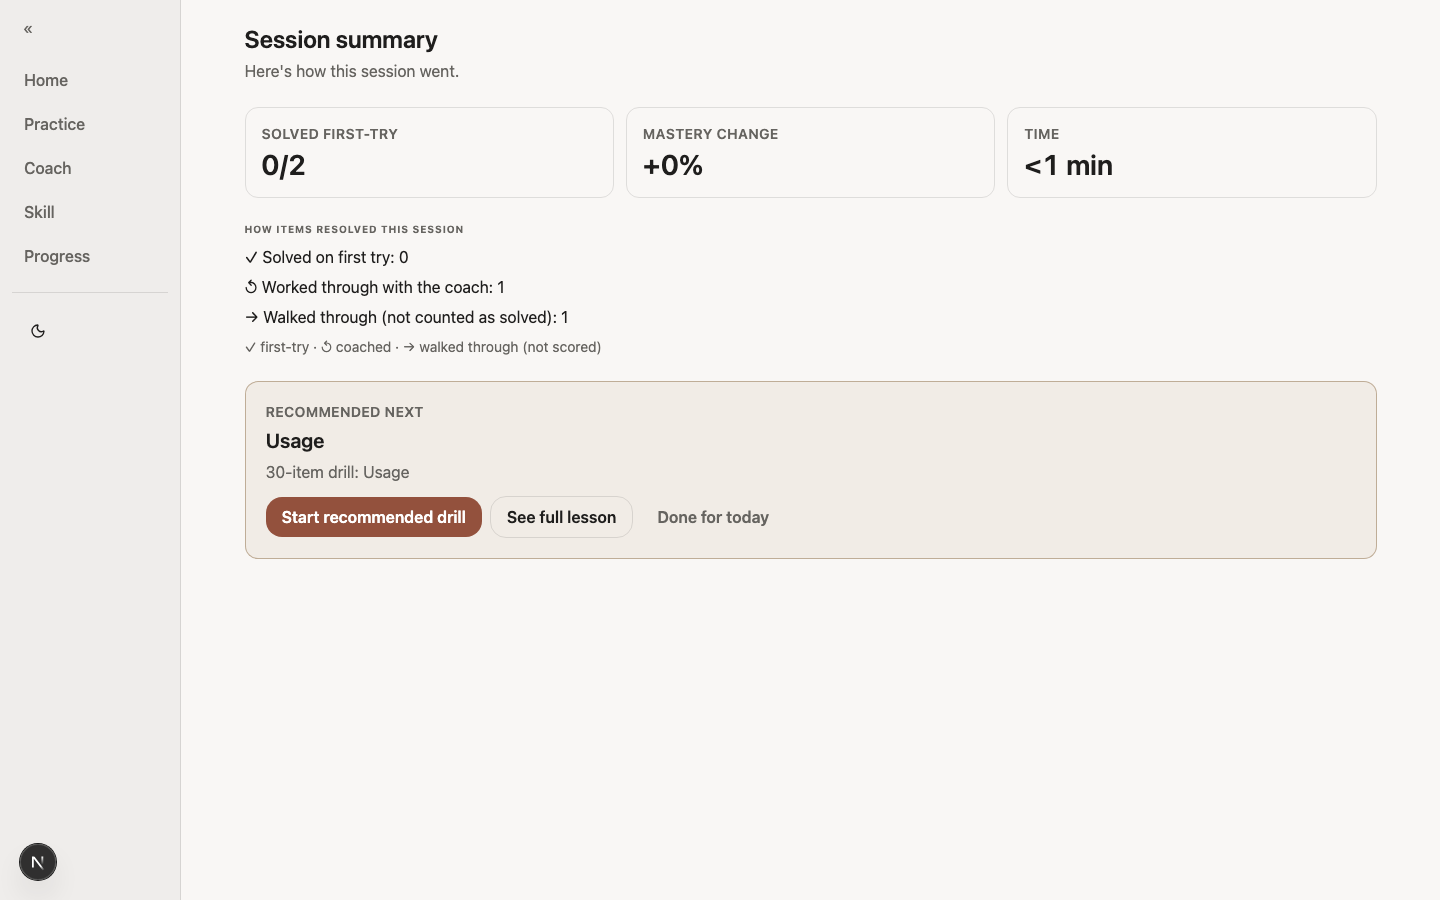
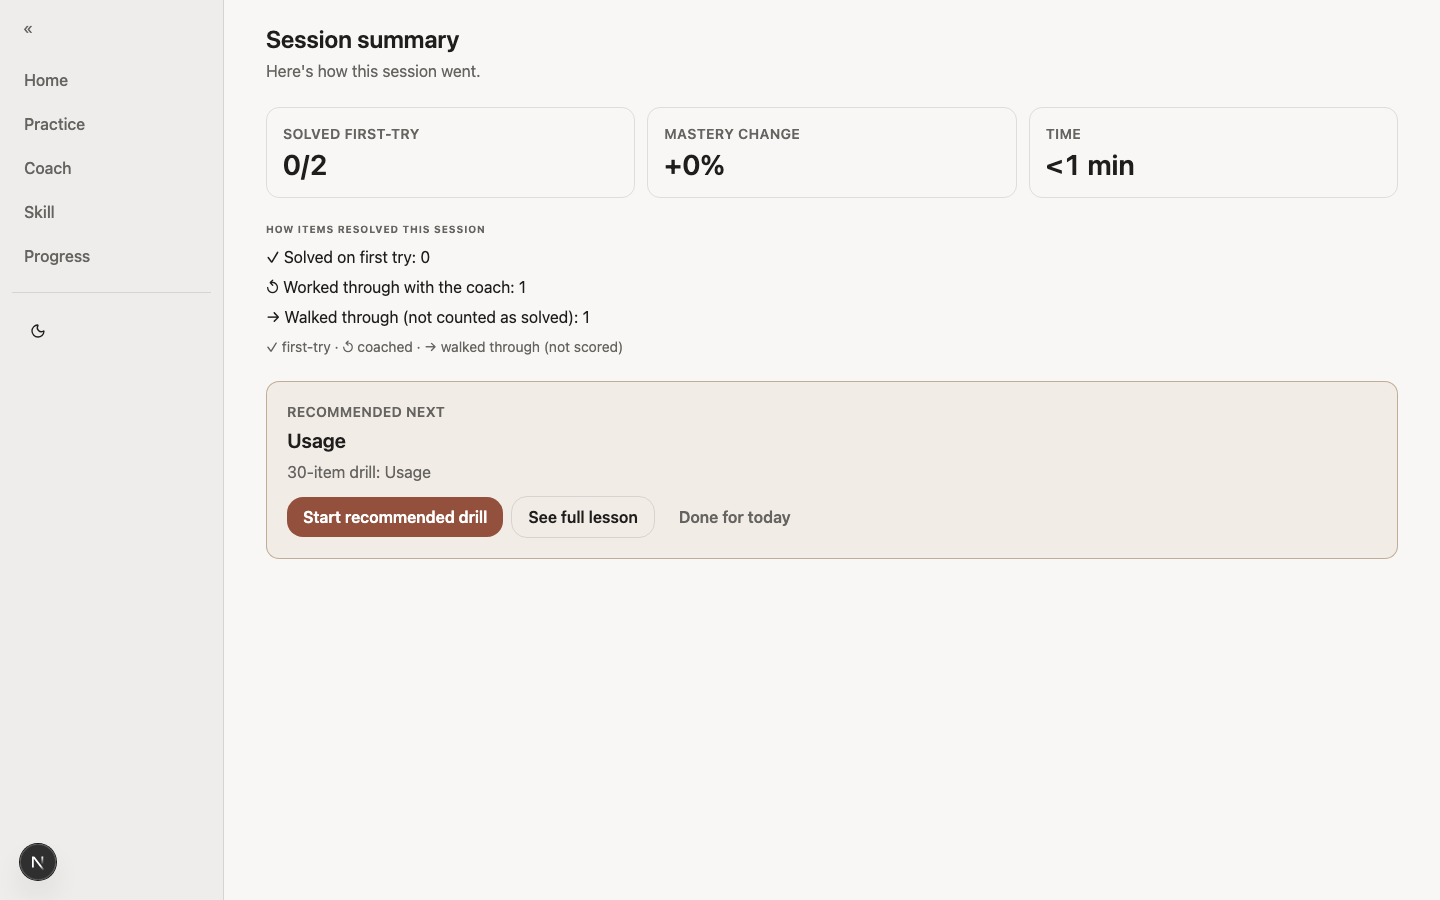
feat(summary): R7 session-wide misconception recap fallback (FR-12 amended)
Prefer the newest session miss on the recommended skill; when the session's
misses all sit on other skills, fall back to the newest session miss instead
of hiding the recap (human-approved; prototype treats the recap as the
session's core narrative). No misses -> no card, unchanged (AP-6).
G8: the pinning test asserting null-on-other-skill-miss was rewritten to the
new contract with a superseded note; a no-miss null case was added so the
honest-absent path stays pinned. Red->green: 652/652 affected areas.

Also: capture.cjs end-session step waits for the summary URL (fixed-delay
screenshot raced Next dev route compile); fresh pairs committed. Live recap
rendering awaits bank misconception coverage (47/987 items) - task spawned.

diff --git a/frontend/components/summary/use_summary.test.ts b/frontend/components/summary/use_summary.test.ts
@@ -233,15 +233,37 @@ describe("loadSummary — C2 misconception + self-correction (FR-1/FR-2/FR-12/FR
     expect(vm.summary.misconception).toBeNull();
   });
 
-  it("renders_no_misconception_when_no_misses_on_recommended_skill", async () => {
+  // Superseded 2026-07-20 (R7, human-approved): FR-12 amended to a session-wide
+  // fallback — a recommended-skill miss is still PREFERRED, but when the session's
+  // misses all sit on other skills, the recap falls back to the newest session
+  // miss instead of hiding the card (the prototype treats the recap as the
+  // session's core narrative). A no-miss session still renders no card.
+  it("falls_back_to_newest_session_miss_when_recommended_skill_has_none (R7)", async () => {
     db.seedSkillStates([skillState()]);
     db.seedQuestions([
-      question({ id: "q-gram", skill_id: "s-gram", misconception: "wrong skill miss" }),
+      question({ id: "q-gram", skill_id: "s-gram", misconception: "other-skill trap" }),
       question({ id: "q-punc-ok", skill_id: "s-punc", misconception: "should not show" }),
     ]);
     const session = await openClosedSession();
     await recordAttempt(session.id, "q-gram", false); // miss on other skill
     await recordAttempt(session.id, "q-punc-ok", true); // correct on recommended
+    const vm = await loadSummary(ports, {
+      subject: SUBJECT,
+      learnerId: LEARNER,
+      sessionId: session.id,
+      skillStateAtStart: new Map([["s-punc", skillState()]]),
+      nowISO: NOW,
+    });
+    expect(vm.summary.misconception).toBe("other-skill trap");
+  });
+
+  it("renders_no_misconception_when_the_session_had_no_misses_at_all", async () => {
+    db.seedSkillStates([skillState()]);
+    db.seedQuestions([
+      question({ id: "q-punc-ok", skill_id: "s-punc", misconception: "should not show" }),
+    ]);
+    const session = await openClosedSession();
+    await recordAttempt(session.id, "q-punc-ok", true);
     const vm = await loadSummary(ports, {
       subject: SUBJECT,
       learnerId: LEARNER,

diff --git a/frontend/components/summary/use_summary.ts b/frontend/components/summary/use_summary.ts
@@ -77,7 +77,11 @@ function deriveScoreRatioMet(scoreCorrect: number, scoreTotal: number): boolean 
 }
 
 /**
- * FR-12: newest session-scoped miss on the recommended skill → its misconception.
+ * FR-12 (amended 2026-07-20, R7): newest session-scoped miss on the recommended
+ * skill → its misconception; when the session's misses all sit on OTHER skills,
+ * fall back to the newest session miss overall (the recap is the session's core
+ * narrative — hiding it because the recommendation points elsewhere buried it
+ * in practice). No misses → null (no card), unchanged.
  * Misses are already newest-first from AttemptRepo; filter to served ids.
  */
 async function deriveMisconception(
@@ -85,13 +89,18 @@ async function deriveMisconception(
   sessionScopedMisses: readonly Attempt[],
   recommendedSkillId: string,
 ): Promise<string | null> {
+  let newestAnySkill: string | null = null;
   for (const miss of sessionScopedMisses) {
     const q = await ports.questionRepo.get(miss.question_id);
-    if (q != null && q.skill_id === recommendedSkillId) {
+    if (q == null) continue;
+    if (q.skill_id === recommendedSkillId) {
       return normalizeMisconception(q.misconception);
     }
+    if (newestAnySkill == null) {
+      newestAnySkill = normalizeMisconception(q.misconception);
+    }
   }
-  return null;
+  return newestAnySkill;
 }
 
 /**

diff --git a/docs/adr/decisions.md b/docs/adr/decisions.md
@@ -693,3 +693,14 @@ title: 'Lightweight decision log (intent debt, long tail)'
   region-by-region against each claimed-fixed V-gap, and paste capture log +
   verdicts into the T28 checkpoint. Remaining gaps → append-only replan tasks.
   Rejected: treating the original audit pairs as post-fix proof (stale).
+
+- 2026-07-20 — **R7: summary misconception recap goes session-wide (FR-12 amended).**
+  The recap card derived only from misses on the RECOMMENDED skill, so it almost
+  never rendered (capture sessions: misses on Punctuation/Organization, recommended
+  Usage → null). Human-approved: prefer the recommended-skill miss, else fall back
+  to the newest session miss on any skill; no misses → no card (AP-6 unchanged).
+  Rejected: keeping recommendation-scoped (buried the prototype's core narrative)
+  and always-newest (loses recommendation coherence when both exist). The old
+  pinning test was rewritten to the new contract with a superseded-note (G8).
+  Live caveat: the dev bank has misconception on only 47/987 items — the card
+  stays honestly absent until bank coverage lands (task chip spawned).

diff --git a/docs/plan/commit-first-coach.visual-gap-register.md b/docs/plan/commit-first-coach.visual-gap-register.md
@@ -136,3 +136,11 @@ the pre-FR-15 auto-feedback flow.
 Gate evidence: vitest 651/651 (affected areas); e2e 16/16 (v3 conformance +
 journeys); tsc clean except 3 pre-existing `use_expandable_list` errors;
 fresh capture 0 FAILED, End session → `/learn/summary?session=…` live.
+
+**R7 update (2026-07-20, later same day):** session-wide fallback approved and
+implemented (`use_summary.deriveMisconception`; pinning test rewritten to the
+new contract, red→green 652/652). Live rendering blocked by DATA, not code:
+`_test_item_bank.ts` has `misconception: null` on 940/987 items — recap stays
+honestly absent (AP-6) until bank coverage lands (spawned task). Capture script
+end-session step now waits for the summary URL instead of a fixed delay
+(eliminates the mid-transition screenshot artifact).
